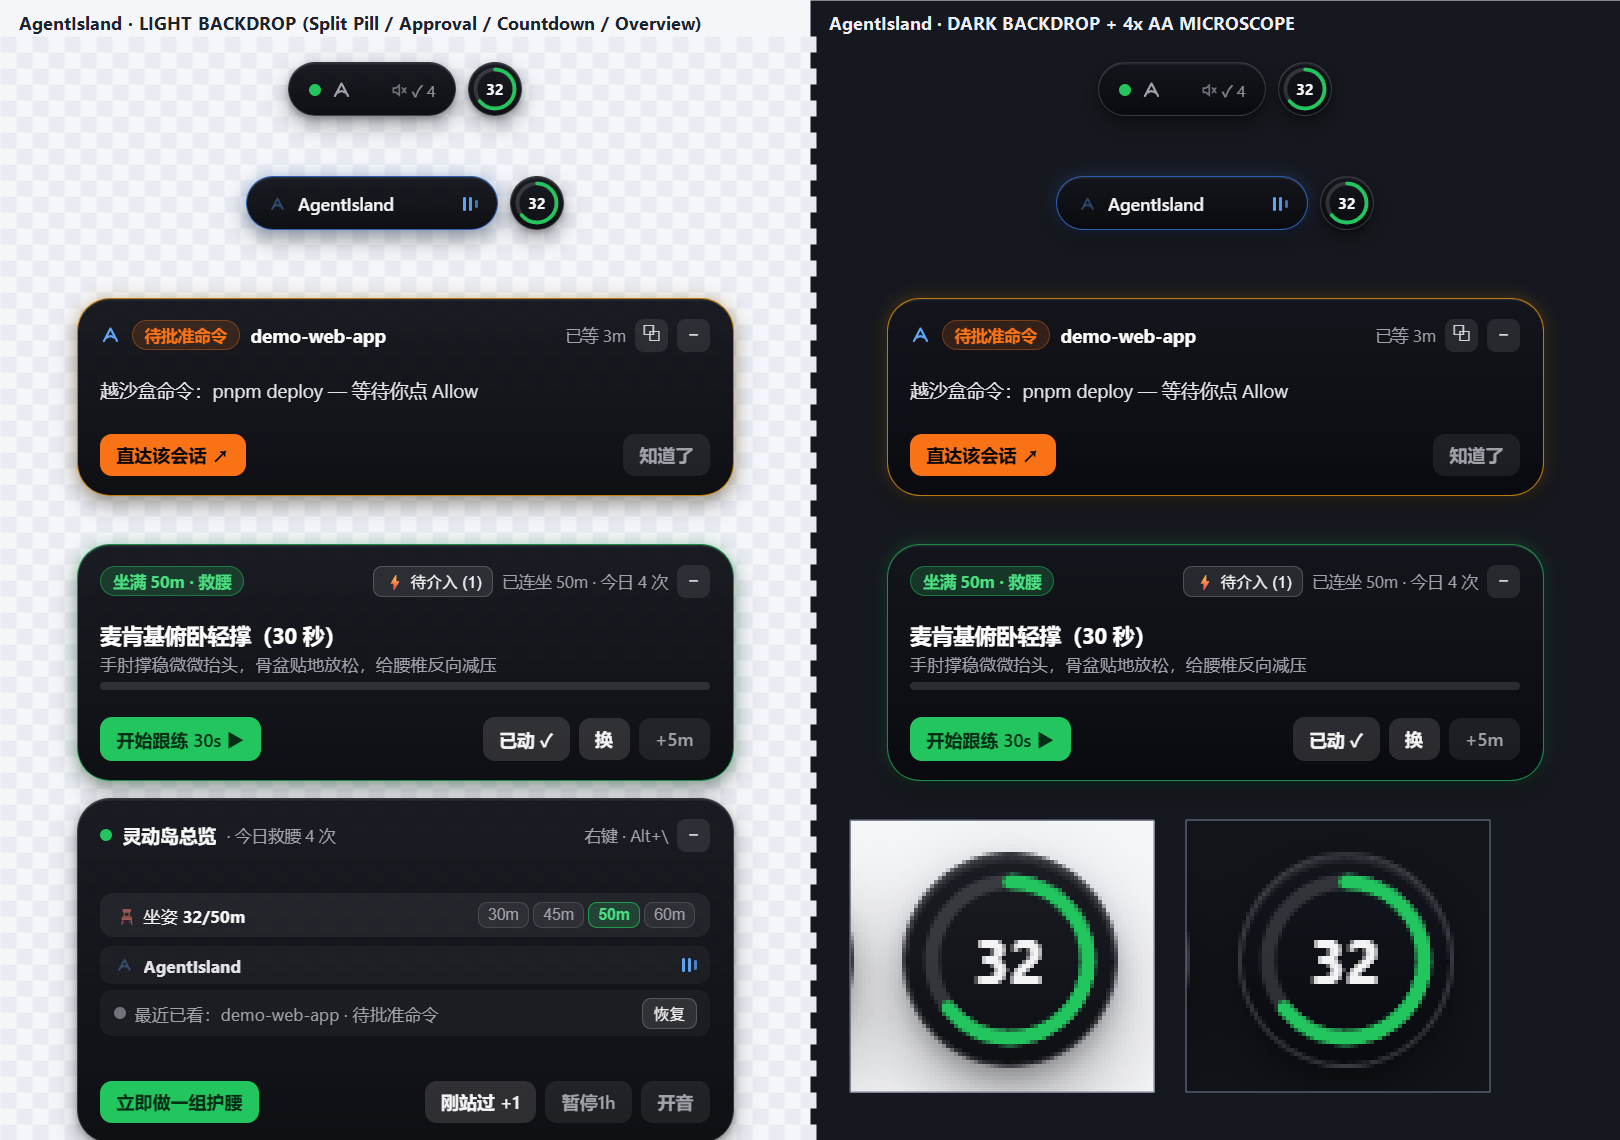
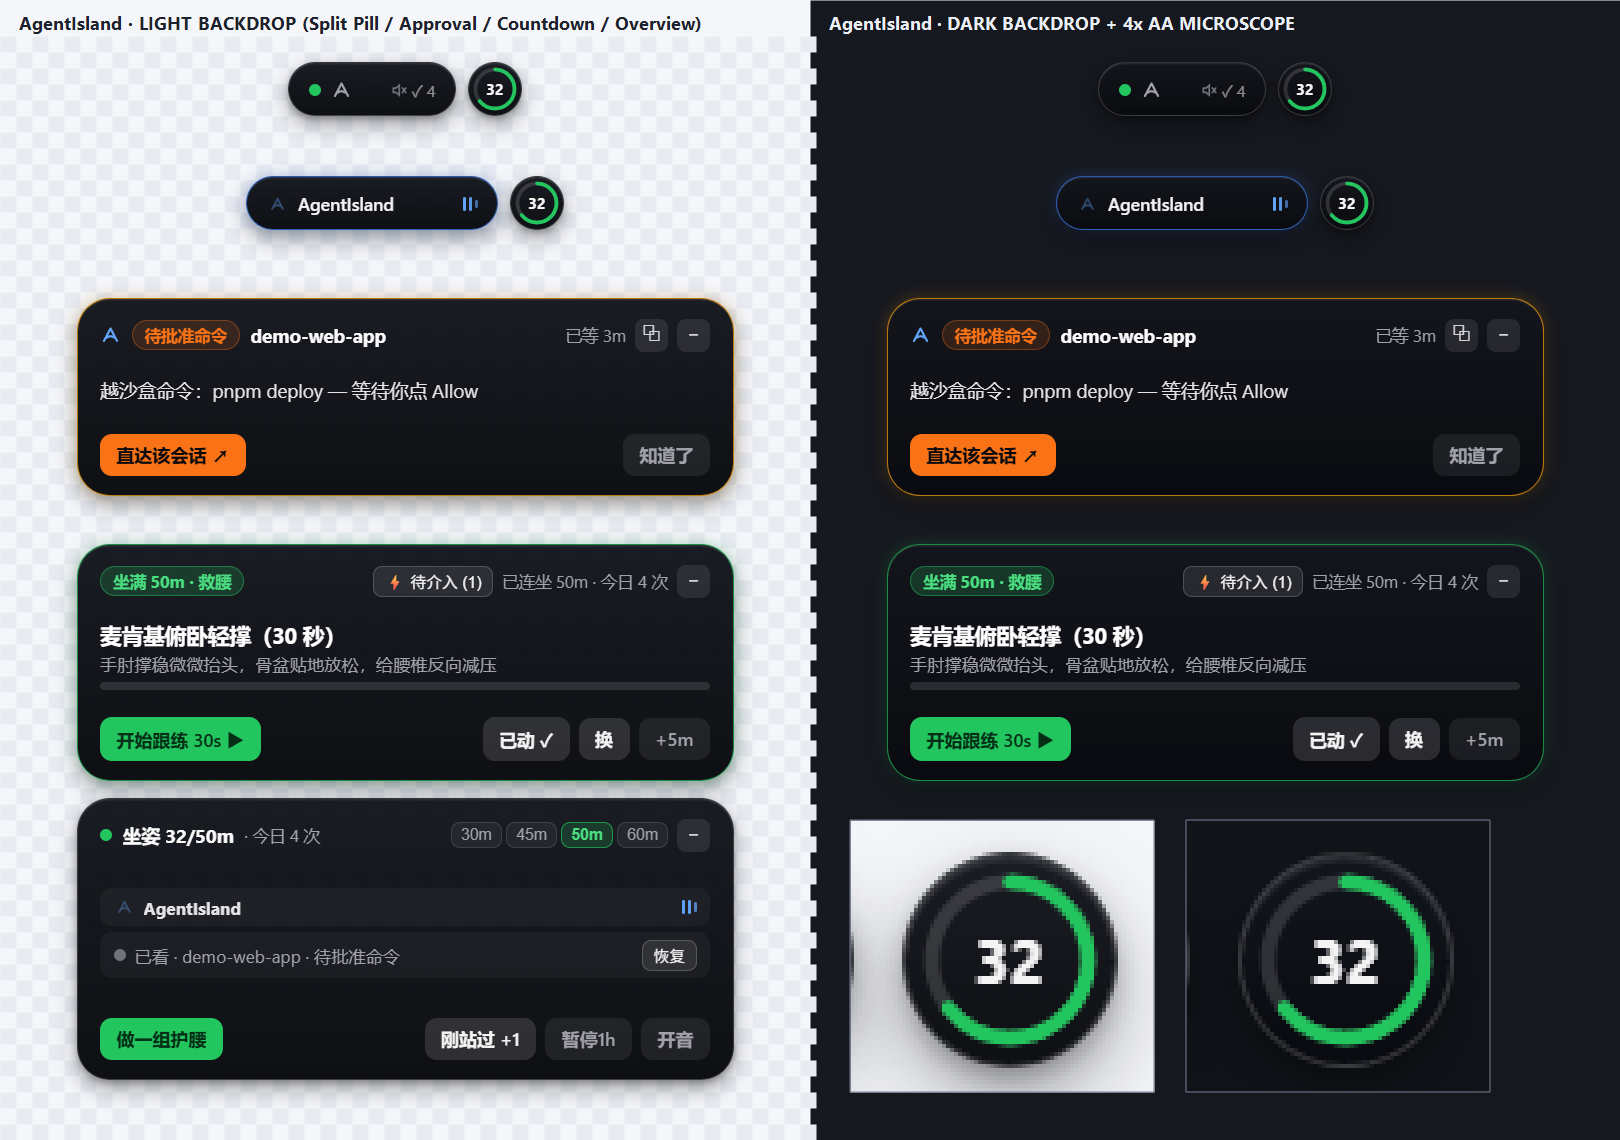
ux: restore full hover preview (320ms), outside-click instant collapse, and slim overview without redundant title

Changed region(s): [[0.0309, 0.7061, 0.463, 1.0], [0.2778, 0.7061, 0.4012, 0.7675]]

diff --git a/ui/index.html b/ui/index.html
@@ -818,7 +818,7 @@
     function computeMainSize(view) {
       if (view === "agy") return { w: 438, h: state.toastText ? 148 : 132, r: 22 };
       if (view === "health") return { w: 438, h: 158, r: 22 };
-      if (view === "overview") return { w: 438, h: 230, r: 22 };
+      if (view === "overview") return { w: 438, h: 188, r: 22 };
       if (state.alerts.length > 0) return { w: 196, h: 36, r: 18 };
       if (state.working.length > 0) return { w: 168, h: 36, r: 18 };
       return { w: 112, h: 36, r: 18 };
@@ -1356,15 +1356,15 @@
         if (state.history.length > 0 && state.alerts.length <= 2) {
           const h = state.history[0];
           listHtml += `<div class="ov-item">
-            <div class="ov-item-left"><span class="dot" style="background:#71717a"></span><span class="ov-item-text" style="color:#a1a1aa">最近已看：${escapeHtml(getSessionLabel(h))} · ${escapeHtml(h.title || h.summary)}</span></div>
+            <div class="ov-item-left"><span class="dot" style="background:#71717a"></span><span class="ov-item-text" style="color:#a1a1aa">已看 · ${escapeHtml(getSessionLabel(h))} · ${escapeHtml(h.title || h.summary)}</span></div>
             <button class="switch-chip" data-action="history-restore" data-id="${escapeHtml(h.id)}">恢复</button>
           </div>`;
         } else if (!listHtml) {
-          listHtml = `<div class="ov-item"><span class="meta-text">暂无活跃或历史待介入会话 · 快捷键 Alt+\\ 随时唤出</span></div>`;
+          listHtml = `<div class="ov-item"><span class="meta-text">暂无待处理会话</span></div>`;
         }
 
         const pauseText = state.health.paused
-          ? `（暂停剩 ${state.health.pauseRemainMinutes || 1}m）`
+          ? `（暂停 ${state.health.pauseRemainMinutes || 1}m）`
           : "";
 
         renderKey = `ov-${mins}-${curInt}-${state.health.todayCount}-${state.alerts.length}-${state.working.length}-${state.history.length}-${state.muted}-${state.health.paused}-${state.health.pauseRemainMinutes}`;
@@ -1373,23 +1373,17 @@
             <div class="card-top">
               <div class="card-top-left">
                 <span class="dot" style="background:#22c55e"></span>
-                <span class="project-name">灵动岛总览</span>
-                <span class="meta-text">· 今日救腰 ${state.health.todayCount} 次</span>
+                <span class="project-name">坐姿 ${mins}/${curInt}m${pauseText}</span>
+                <span class="meta-text">· 今日 ${state.health.todayCount} 次</span>
               </div>
               <div class="card-top-right">
-                ${state.alerts.length > 1 ? `<button class="switch-chip" data-action="agy-dismiss-all">全部已读</button>` : `<span class="meta-text">右键 · Alt+\\</span>`}
+                ${state.alerts.length > 1 ? `<button class="switch-chip" data-action="agy-dismiss-all">全已读</button>` : `<div class="int-chips">${intervals}</div>`}
                 <button class="icon-btn" data-action="collapse" title="收起">−</button>
               </div>
             </div>
-            <div class="ov-grid">
-              <div class="ov-row">
-                <span>🪑 坐姿 <strong>${mins}/${curInt}m</strong>${pauseText}</span>
-                <div class="int-chips">${intervals}</div>
-              </div>
-              <div class="ov-list">${listHtml}</div>
-            </div>
+            <div class="ov-list">${listHtml}</div>
             <div class="actions">
-              <button class="btn" style="background:#22c55e;color:#052e16" data-action="open-health-pin">立即做一组护腰</button>
+              <button class="btn" style="background:#22c55e;color:#052e16" data-action="open-health-pin">做一组护腰</button>
               <div class="btn-group">
                 <button class="btn btn-secondary" data-action="health-done">刚站过 +1</button>
                 <button class="btn btn-ghost" data-action="toggle-pause">${state.health.paused ? '恢复' : '暂停1h'}</button>
@@ -1430,18 +1424,22 @@
     dock.addEventListener("mouseenter", () => {
       pointerInsideDock = true;
       if (hoverCloseTimer) { clearTimeout(hoverCloseTimer); hoverCloseTimer = null; }
-      // Rule A1: Hover expands the currently ticking alert card directly; never accidentally pops overview when idle
-      if (state.view === "compact" && !state.ctxOpen && state.alerts.length > 0 && !hoverOpenTimer) {
+      // Responsive hover preview across all states (320ms prevents accidental pass-through triggers while staying snappy)
+      if (state.view === "compact" && !state.ctxOpen && !hoverOpenTimer) {
         hoverOpenTimer = setTimeout(() => {
           hoverOpenTimer = null;
-          if (state.view === "compact" && !state.ctxOpen && state.alerts.length > 0) {
-            const cur = state.alerts[state.tickerIdx % state.alerts.length];
+          if (state.view === "compact" && !state.ctxOpen) {
             state.pinned = false;
-            state.view = "agy";
-            state.activeAlertId = cur ? cur.id : state.alerts[0].id;
+            if (state.alerts.length > 0) {
+              const cur = state.alerts[state.tickerIdx % state.alerts.length];
+              state.view = "agy";
+              state.activeAlertId = cur ? cur.id : state.alerts[0].id;
+            } else {
+              state.view = "overview";
+            }
             render(true);
           }
-        }, 260);
+        }, 320);
       }
     });
 
@@ -1449,14 +1447,13 @@
       pointerInsideDock = false;
       if (hoverOpenTimer) { clearTimeout(hoverOpenTimer); hoverOpenTimer = null; }
       if (state.view !== "compact" && !state.pinned && !state.ctxOpen && !state.countdown.active && !state.countdown.paused) {
-        // Gentle collapse after pointer leaves an unpinned preview/toast
         hoverCloseTimer = setTimeout(() => {
           hoverCloseTimer = null;
           if (!state.pinned && !state.ctxOpen && !state.countdown.active && !state.countdown.paused && !pointerInsideDock) {
             state.view = "compact";
             render(true);
           }
-        }, 650);
+        }, 380);
       }
     });
 
@@ -1695,10 +1692,20 @@
         } else if (msg.type === "command") {
           clearHoverTimers();
           if (msg.command === "outside_click") {
+            let needRender = false;
             if (state.ctxOpen) {
               state.ctxOpen = false;
-              render(false);
+              needRender = true;
             }
+            // Clicking anywhere outside collapses any expanded card immediately (unless actively counting down a workout)
+            if (state.view !== "compact" && !state.countdown.active) {
+              clearAutoCollapseTimer();
+              state.manualHealthOpen = false;
+              state.pinned = false;
+              state.view = "compact";
+              needRender = true;
+            }
+            if (needRender) render(true);
             return;
           }
           state.ctxOpen = false;

diff --git a/src/AgentIsland.cs b/src/AgentIsland.cs
@@ -2774,14 +2774,18 @@ namespace AgentIsland
                     && l3Snap.Contains("\"view\":\"agy\"") && l3Snap.Contains("\"autoCollapseMs\":30000");
                 record("ux_notification_tiering_l1_l2_l3", tierRuleOk, "L1=" + l1Snap + " | L2=" + l2Snap + " | L3=" + l3Snap);
 
-                // (f) Outside click closes open context menu cleanly!
+                // (f) Outside click closes BOTH open context menu AND expanded card cleanly!
+                SendCommandToUi("open_overview");
+                await Task.Delay(150);
                 await _coreWebView.ExecuteScriptAsync("document.getElementById('dock').dispatchEvent(new MouseEvent('contextmenu',{bubbles:true,cancelable:true}))");
                 await Task.Delay(150);
-                string ctxBefore = UnquoteJsString(await _coreWebView.ExecuteScriptAsync("String(window.__uxDebug().ctxOpen)"));
+                string beforeOutside = UnquoteJsString(await _coreWebView.ExecuteScriptAsync("JSON.stringify(window.__uxDebug())"));
                 SendCommandToUi("outside_click");
                 await Task.Delay(180);
-                string ctxAfter = UnquoteJsString(await _coreWebView.ExecuteScriptAsync("String(window.__uxDebug().ctxOpen)"));
-                record("ux_outside_click_closes_ctx", ctxBefore == "true" && ctxAfter == "false", "before=" + ctxBefore + " after=" + ctxAfter);
+                string afterOutside = UnquoteJsString(await _coreWebView.ExecuteScriptAsync("JSON.stringify(window.__uxDebug())"));
+                bool outsideOk = beforeOutside.Contains("\"ctxOpen\":true") && beforeOutside.Contains("\"view\":\"overview\"")
+                    && afterOutside.Contains("\"ctxOpen\":false") && afterOutside.Contains("\"view\":\"compact\"");
+                record("ux_outside_click_collapses_all", outsideOk, "before=" + beforeOutside + " | after=" + afterOutside);
 
                 // 4. Frontend JS error check
                 string jsErrJson = await _coreWebView.ExecuteScriptAsync("JSON.stringify(window.__diagErrors || [])");
